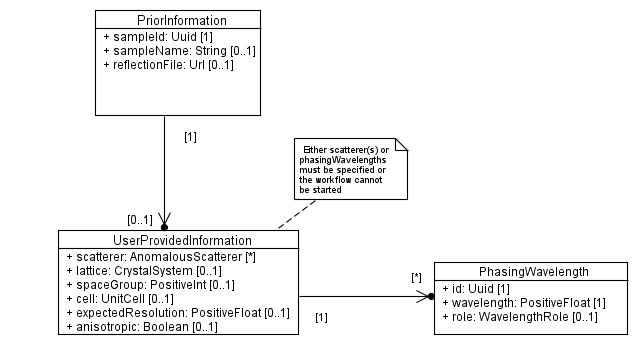
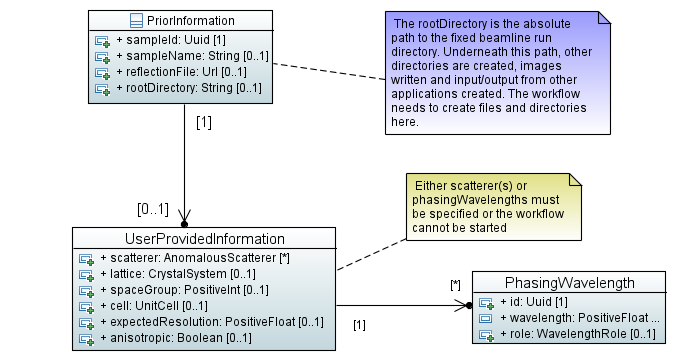
Allow an overall invariant absolute root directory to be specified.
- The per-collection root directory is now optional if the overall one
is specified.
 - This is to allow for more robust checks for filesystem-level
collisions on the workflow side

diff --git a/com.globalphasing.sdcp.abstract_beamline/src/co/gphl/beamline/v2_unstable/ui/PriorInformation.java b/com.globalphasing.sdcp.abstract_beamline/src/co/gphl/beamline/v2_unstable/ui/PriorInformation.java
@@ -4,10 +4,10 @@ import java.util.UUID;
 
 public interface PriorInformation {
 
-	UUID getSampleId();
-	String getSampleName();
-	// For future use. 
-	// URL getReflectionFile();
-	UserProvidedInfo getUserProvidedInfo();
-	
+    UUID getSampleId();
+    String getSampleName();
+    // For future use. 
+    // URL getReflectionFile();
+    UserProvidedInfo getUserProvidedInfo();
+    String getRootDirectory();
 }

diff --git a/com.globalphasing.sdcp.abstract_beamline/src/co/gphl/beamline/v2_unstable/information/CollectionDone.java b/com.globalphasing.sdcp.abstract_beamline/src/co/gphl/beamline/v2_unstable/information/CollectionDone.java
@@ -24,5 +24,5 @@ public interface CollectionDone {
     UUID getProposalId();
     String getImageRoot();
     int getStatus();
-
+    boolean isSetImageRoot();
 }
